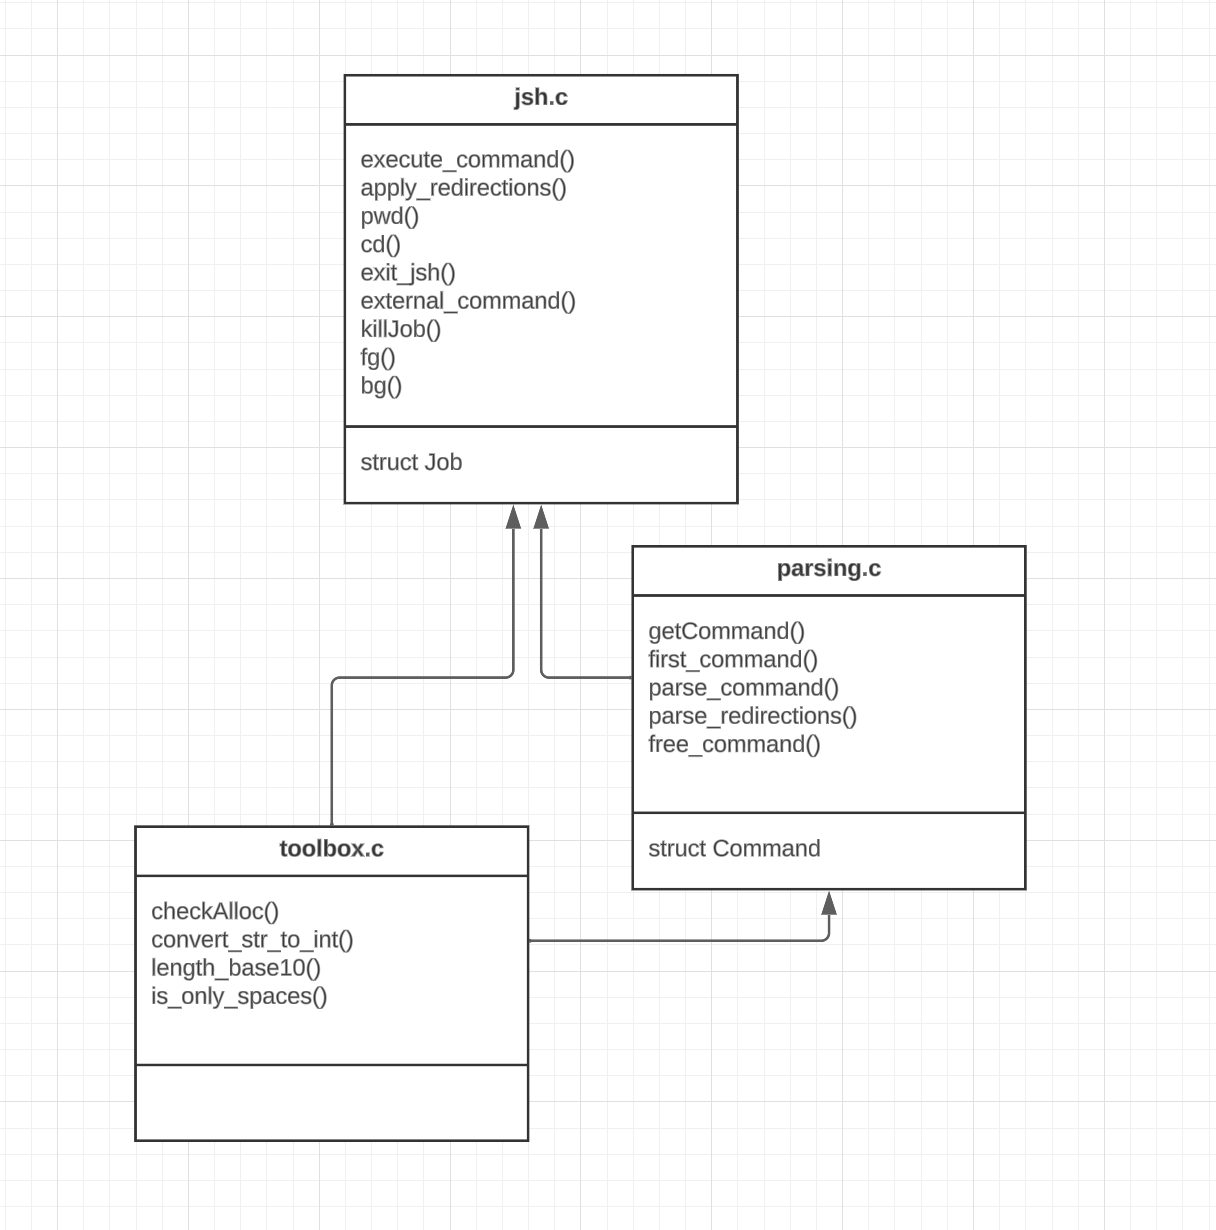
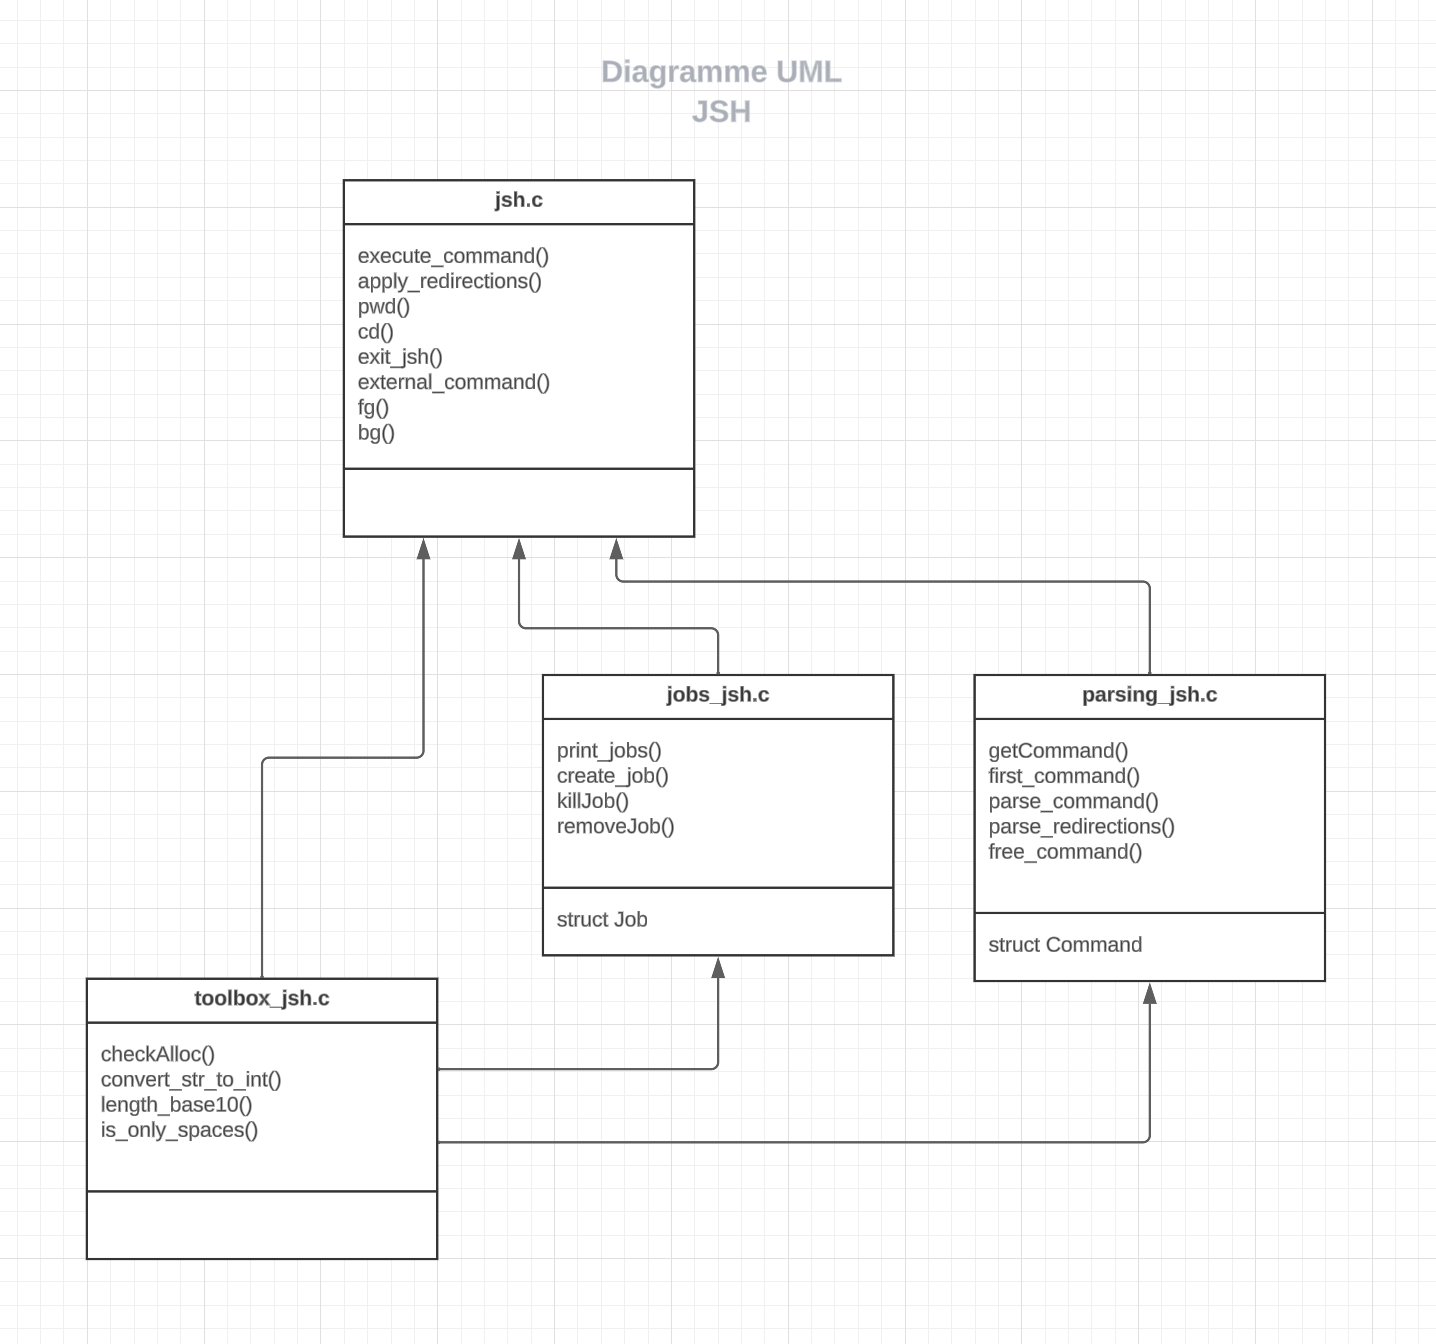
màj ARCHITECTURE.md

diff --git a/jsh.c b/jsh.c
@@ -292,26 +292,26 @@ int callRightCommand(Command* command) {
         } else return 1;
     }
     // Commandes bg et fg
-    // else if (strcmp(command -> argsComm[0],"bg") == 0 || strcmp(command -> argsComm[0],"fg") == 0 ) {
-    //     if (correct_nbArgs(command -> argsComm, 2, 3)) {
-    //         char * s = command -> argsComm[1];
-    //         char * secondlast = &s[strlen(s)-2];
-    //         char * last = &s[strlen(s)-1];
-    //         char * final = malloc(sizeof(char)*2);
-    //         if (!strcmp(secondlast,"%")) {
-    //             strcpy(&final[0],secondlast);
-    //             strcpy(&final[1],last);
-    //         }
-    //         else strcpy(&final[0], last);
-    //         int result;
-    //         if(strcmp(command -> argsComm[0],"bg") == 0) result = bg(convert_str_to_int(final)-1);
-    //         else result = fg(convert_str_to_int(final)-1);
-    //         free(final);
-    //         return result;
+    else if (strcmp(command -> argsComm[0],"bg") == 0 || strcmp(command -> argsComm[0],"fg") == 0 ) {
+        if (correct_nbArgs(command -> argsComm, 2, 3)) {
+            char * s = command -> argsComm[1];
+            char * secondlast = &s[strlen(s)-2];
+            char * last = &s[strlen(s)-1];
+            char * final = malloc(sizeof(char)*2);
+            if (!strcmp(secondlast,"%")) {
+                strcpy(&final[0],secondlast);
+                strcpy(&final[1],last);
+            }
+            else strcpy(&final[0], last);
+            int result;
+            if(strcmp(command -> argsComm[0],"bg") == 0) result = bg(convert_str_to_int(final)-1);
+            else result = fg(convert_str_to_int(final)-1);
+            free(final);
+            return result;
             
-    //     }
-    //     else return 1;
-    // }
+        }
+        else return 1;
+    }
     // Commande exit
     else if (strcmp(command -> argsComm[0], "exit") == 0) {
         if (correct_nbArgs(command -> argsComm, 1, 2)) {
@@ -501,6 +501,57 @@ int exit_jsh(int val) {
         running = 0;
     }
     return returnValue;
+}
+
+int bg(int job_num) {
+    if (job_num > nbJobs) {
+        fprintf(stderr, "Could not run bg, process not found.\n");
+        return 1;
+    }
+    Job *job = & l_jobs[job_num];
+    printf("ground b4 = %s\n", job->ground);
+    if(strcmp(job->ground,"Background")==0){
+        fprintf(stderr, "Process already running in Background.\n");
+        return 1;
+    }
+    if (kill(job->pid, SIGCONT) < 0) {
+        perror("Could not run bg ");
+        return 1;
+    }
+    job->ground = "Background";
+    pid_t pid = fork();
+    if (pid == 0){
+        strcat(job->command_name, " &");
+        execute_command(getCommand(job->command_name),NULL);
+        exit(0);
+    }
+    else{
+        int status;
+        printf("[%d] %s %d running in Background\n", nbJobs, job->command_name, job->pid);
+        waitpid(pid,&status,0);
+    }
+    removeJob(job_num);
+    return 0;
+}
+
+
+
+int fg(int job_num) {
+    if (job_num > nbJobs) {
+        fprintf(stderr, "Could not run bg, process not found.\n");
+        return 1;
+    }
+    Job *job = & l_jobs[job_num];
+    if(strcmp(job->ground,"Foreground")==0){
+        fprintf(stderr, "Process already running in Foreground.\n");
+        return 1;
+    }
+    job->ground = "Foreground";
+    printf("%s\n", job->command_name);
+    printf("[%d]%s %d running in Foreground\n", nbJobs, job->command_name, job->pid);
+    execute_command(getCommand(job->command_name),NULL);
+    removeJob(job_num);
+    return 0;
 }
 
 

diff --git a/jobs_jsh.c b/jobs_jsh.c
@@ -220,81 +220,6 @@ int killJob (char* sig, char* pid) {
     return returnValue;
 }
 
-// int bg(int job_num) {
-//     if (job_num > nbJobs) {
-//         fprintf(stderr, "Could not run bg, process not found.\n");
-//         return 1;
-//     }
-
-
-//     Job *job = & l_jobs[job_num];
-//     printf("ground b4 = %s\n", job->ground);
-//     if(strcmp(job->ground,"Background")==0){
-//         fprintf(stderr, "Process already running in Background.\n");
-//         return 1;
-//     }
-    
-
-//     if (kill(job->pid, SIGCONT) < 0) {
-//         perror("Could not run bg ");
-//         return 1;
-//     }
-    
-//     job->ground = "Background";
-
-//     pid_t pid = fork();
-//     if (pid == 0){
-
-//         execute_command(getCommand(job->command_name+'&'),NULL);
-
-//         exit(0);
-//     }
-//     else{
-//         int status;
-
-//         printf("[%d] %s %d running in Background\n", nbJobs, job->command_name, job->pid);
-//         waitpid(pid,&status,0);
-            
-        
-//     }
-
-//     removeJob(job_num);
-//     return 0;
-// }
-
-
-
-// int fg(int job_num) {
-//     if (job_num > nbJobs) {
-//         fprintf(stderr, "Could not run bg, process not found.\n");
-//         return 1;
-//     }
-
-//     Job *job = & l_jobs[job_num];
-//     if(strcmp(job->ground,"Foreground")==0){
-//         fprintf(stderr, "Process already running in Foreground.\n");
-//         return 1;
-//     }
-//     //l_jobs[0].ground = "Background"; //shell is in background while process end his execution
-
-//     job->ground = "Foreground";
-
-//     printf("%s\n", job->command_name);
-//     //callRightCommand(getCommand(job->command_name));
-//     //int status;
-//      //waitpid(job->pid, &status,WUNTRACED);//
-
-//     //l_jobs[0].ground = "Foreground";
-//     printf("[%d]%s %d running in Foreground\n", nbJobs, job->command_name, job->pid);
-
-//     execute_command(getCommand(job->command_name),NULL);
-
-
-//     removeJob(job_num);
-
-//     return 0;
-// }
-
 void check_sons_state() {
     int status;
     int i = 0;

diff --git a/jobs_jsh.h b/jobs_jsh.h
@@ -22,6 +22,4 @@ void print_jobs(pid_t job, bool isJob, bool tHyphen);
 void removeJob (int n);
 bool inspectAllSons(pid_t pid3, int sig,bool print,bool hasStopped);
 int killJob (char* sig, char* pid);
-int bg(int job_num);
-int fg(int job_num);
 void check_sons_state();

diff --git a/jsh.h b/jsh.h
@@ -7,6 +7,8 @@ int cd(char* pathname);
 int exit_jsh(int val);
 void print_lastReturn();
 int external_command(Command* command, int pipe_out[2]);
+int bg(int job_num);
+int fg(int job_num);
 
 // Fonctions auxiliaires
 int main(int argc, char** argv);

diff --git a/ARCHITECTURE.md b/ARCHITECTURE.md
@@ -1,14 +1,15 @@
-Le projet est réparti sur 3 modules :
+Le projet est réparti sur 4 modules :
 - un module consacré au parsing (parsing_jsh.c).
+- un module consacré à la gestion des jobs (jobs_jsh.c).
 - le module principal consacré à la récupération et à l'exécution d'une commande (jsh.c).
-- un module annexe contenant des fonctions auxiliaires utiles aux deux modules précédents (toolbox.c).
+- un module annexe contenant des fonctions auxiliaires utiles aux trois modules précédents (toolbox.c).
 
 Deux structures de données sont utilisées pour le projet : une structure Job représentant un job et une structure Command représentant une commande.
 
 # Précisions sur la structure Command:
 
 Après la lecture et la récupération d'une ligne de commande, celle-ci est envoyée au module de parsing.
-Une fois la string de commande traitée, le module de parsing renvoie une unique **structure Command** (voir définition dans parsing.h), représentant la dernière commande de la pipeline (qui peut être constituée d'une seule commande) entrée par l'utilisateur.  
+Une fois la string de commande traitée, le module de parsing renvoie une unique **structure Command** (voir définition dans parsing.h), représentant la dernière commande du pipeline (qui peut être constituée d'une seule commande) entrée par l'utilisateur.  
 La structure Command fait référence à elle-même : elle contient d'autres structures Command. Ainsi, la structure Command représentant la dernière commande du pipeline entrée par l'utilisateur contient un champ "input", qui correspond à la commande qui la précède dans le pipeline. Cette dernière contient elle-même une commande dans son champ input, qui correspond à celle qui la précède, etc.  
 Toutes les Command du pipeline contiennent également un champ accueillant les éventuelles substitutions qu'elles utilisent (commandes à exécuter pour constituer leurs arguments).   
 Le caractère récursif de la structure de données Command induit le fait que certaines fonctions traitant les Command sont elles-mêmes récursives. C'est le cas notamment de la fonction **execute_command()**, qui a pour rôle de superviser tout le processus d'exécution d'une commande en :  
@@ -18,7 +19,7 @@ Le caractère récursif de la structure de données Command induit le fait que c
 
 # Précisions sur la structure Job
 
-La structure Job contient cinq champs: deux stockant la string de commande à laquelle elle correspond et son pid, et trois autres stockant le numéro, l'état du job, et son emplacement à l'avant ou à l'arrière-plan. Deux variables globales en lien avec les jobs sont utilisées dans le module jsh.c : l'une stockant le nombre de jobs actuel, et l'autre stockant les adresses vers les structures de tous ces jobs sous la forme d'un tableau.
+La structure Job (voir définition dans jobs_jsh.c) contient cinq champs: deux stockant la string de commande à laquelle elle correspond et son pid, et trois autres stockant le numéro, l'état du job, et son emplacement à l'avant ou à l'arrière-plan. Deux variables globales en lien avec les jobs sont utilisées dans les modules jobs_jsh.c et jsh.c : l'une stockant le nombre de jobs actuel, et l'autre stockant les adresses vers les structures de tous ces jobs sous la forme d'un tableau.
 
 # Diagramme UML du projet
 
